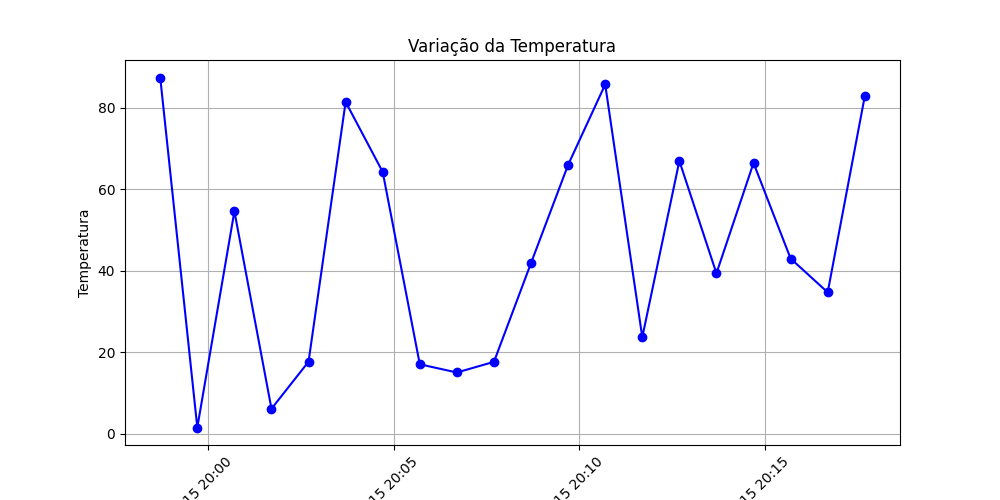
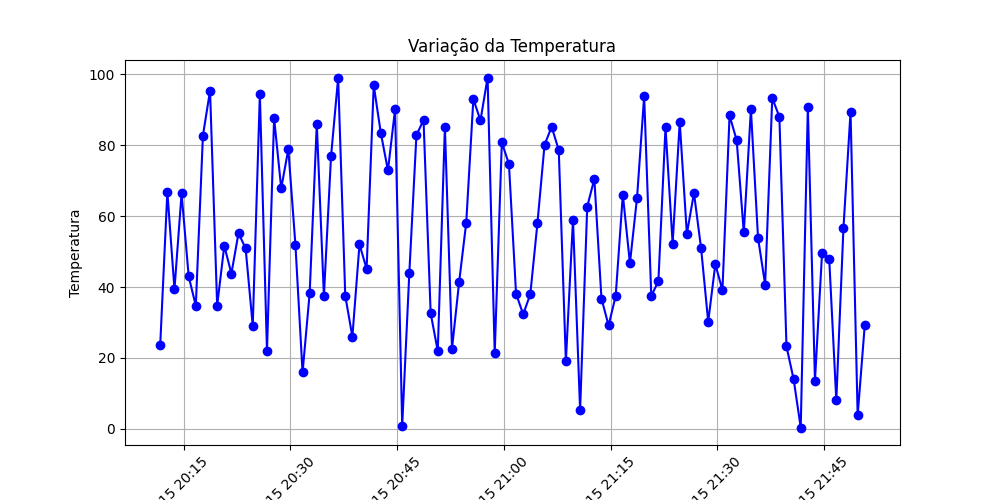
galeria page fix

diff --git a/css/styles.css b/css/styles.css
@@ -24,19 +24,42 @@ body {
   background-color: #777;
 }
 
-.carousel {
+.carousel-container {
   display: flex;
-  overflow: hidden;
-  width: 80%;
-  max-width: 600px;
   justify-content: center;
   align-items: center;
-  margin-top: 20px;
-  position: relative;
+  width: 100%;
+  height: 80vh;
 }
 
-.carousel img {
-  width: 100%;
+.carousel {
+  width: 80%;
+  max-width: 600px;
+}
+
+.slick-slide {
+  display: flex !important;
+  justify-content: center;
+  align-items: center;
+}
+
+.slick-slide img {
+  max-width: 100%;
+  max-height: 70vh;
+  object-fit: contain;
+  margin: auto;
+}
+
+.grafico-container {
+  display: flex;
+  justify-content: center;
+  align-items: center;
+  height: 80vh;
+}
+
+.grafico-container img {
+  max-width: 80%;
+  height: auto;
   border-radius: 10px;
-  transition: transform 0.5s ease-in-out;
+  box-shadow: 0px 4px 8px rgba(0, 0, 0, 0.2);
 }

diff --git a/galeria.html b/galeria.html
@@ -15,14 +15,18 @@
     <img src="img/logo.jpg" width="50" height="50">
     <a href="/index.html">Home</a>
     <a href="/galeria.html">Galeria</a>
-    <a href="/python/templates/grafico.html">Gráfico</a>
+    <a href="/grafico.html">Gráfico</a>
   </div>
   <h1>Galeria</h1>
-  <div class="carousel">
-    <div><img src="img/steam-chat.png" alt="Imagem 1"></div>
-    <div><img src="img/background.png" alt="Imagem 2"></div>
-    <div><img src="img/cs.png" alt="Imagem 3"></div>
+
+  <div class="carousel-container">
+    <div class="carousel">
+      <div><img src="img/lacreatura.jpeg" alt="Imagem 1"></div>
+      <div><img src="img/littlewhite.jpg" alt="Imagem 2"></div>
+      <div><img src="img/upsidedown.jpg" alt="Imagem 3"></div>
+    </div>
   </div>
+
   <script src="/scripts/script.js"></script>
 </body>
 </html>

diff --git a/scripts/script.js b/scripts/script.js
@@ -1,18 +1,12 @@
 $(document).ready(function(){
-    $('.carousel').slick({
-      autoplay: true,
-      autoplaySpeed: 2000,
-      dots: true,
-      arrows: true
-    });
-  
-    $('.carousel img').css({
-      'display': 'block',
-      'margin': '0 auto',
-      'width': '100%',
-      'max-width': '600px',
-      'height': '400px',
-      'object-fit': 'cover'
-    });
+  $('.carousel').slick({
+    autoplay: true,
+    autoplaySpeed: 2000,
+    dots: true,
+    arrows: true,
+    centerMode: true,
+    centerPadding: '0px',
+    slidesToShow: 1,
+    adaptiveHeight: true
   });
-  
+});

diff --git a/grafico.html b/grafico.html
@@ -12,7 +12,10 @@
     <a href="/index.html">Home</a>
     <a href="/galeria.html">Galeria</a>
     <a href="/grafico.html">Gráfico</a>
-  </div>
-  <h1>Home</h1>
+</div>
+<h1>Gráfico</h1>
+<div class="grafico-container">
+  <img src="/static/grafico.png" alt="Gráfico de Temperatura">
+</div>
 </body>
 </html>

diff --git a/python/read_db.py b/python/read_db.py
@@ -2,6 +2,7 @@ import time
 import mysql.connector
 import matplotlib.pyplot as plt
 import pandas as pd
+from datetime import datetime
 
 def conectar_bd():
     return mysql.connector.connect(
@@ -16,6 +17,16 @@ def gerar_grafico():
         conexao = conectar_bd()
         cursor = conexao.cursor()
         cursor.execute("SELECT horario, temperatura FROM temp ORDER BY horario DESC LIMIT 100")
+        
+        #Exemplos de busca personalizada
+        '''
+        #cursor.execute("SELECT horario, temperatura FROM temp WHERE horario BETWEEN '2025-02-15 20:00:00' AND '2025-02-15 20:10:00'")
+        
+        data_inicio = "2025-02-15 12:00:00"
+        data_fim = "2025-02-15 18:00:00"
+        cursor.execute("SELECT horario, temperatura FROM temp WHERE horario BETWEEN %s AND %s", (data_inicio, data_fim))
+        '''
+        
         dados = cursor.fetchall()
         
         if dados:
@@ -33,7 +44,7 @@ def gerar_grafico():
             
             plt.savefig("static/grafico.png")
             plt.close()
-            print("Gráfico atualizado.")
+            print(f"Gráfico atualizado às {datetime.now().strftime('%H:%M')}.")
         
         cursor.close()
         conexao.close()
